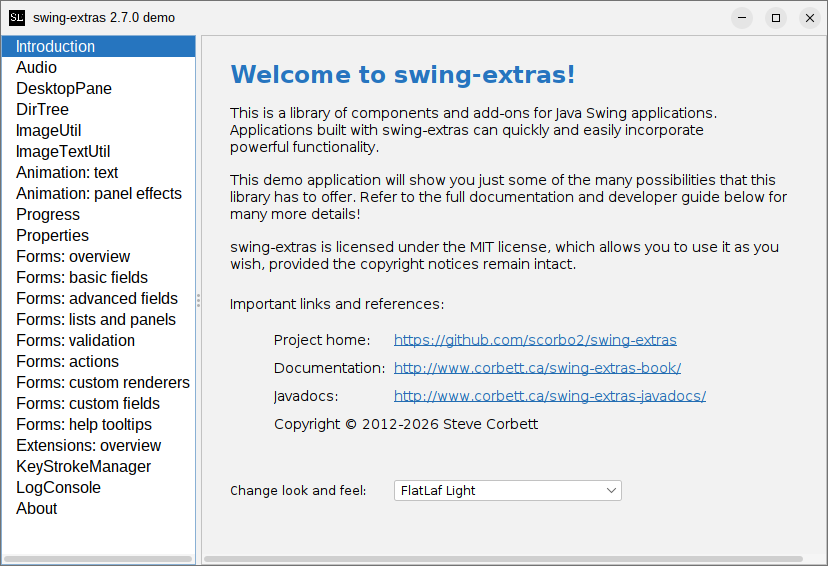
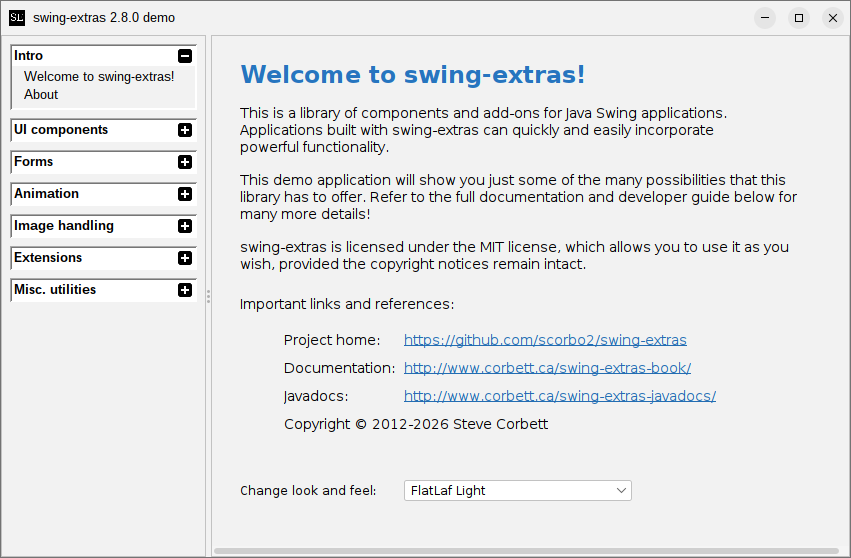
Final touches for 2.8 release (#420)
* Final touches for 2.8 release

* Remove self-referential release announcement link

diff --git a/src/main/java/ca/corbett/extras/Version.java b/src/main/java/ca/corbett/extras/Version.java
@@ -29,7 +29,7 @@ public final class Version {
         aboutInfo.projectUrl = PROJECT_URL;
         aboutInfo.logoImageLocation = "/swing-extras/images/swing-extras-logo.jpg";
         aboutInfo.applicationName = Version.NAME;
-        aboutInfo.applicationVersion = Version.VERSION + "-SNAPSHOT"; // TODO Remove -SNAPSHOT before release
+        aboutInfo.applicationVersion = Version.VERSION;
 
         // Applications can optionally show "built with swing-extras X.Y" in their about box
         // along with a link to the swing-extras product page, but we will disable that

diff --git a/README.md b/README.md
@@ -5,7 +5,6 @@ applications. The library includes a demo application so you can try out the var
 utilities within swing-extras:
 
 ![DemoApp](demo-app.png "Demo app")
-TODO update screenshot for 2.8 release
 
 ## Documentation
 
@@ -13,19 +12,17 @@ You can browse the full documentation online:
 - <http://www.corbett.ca/swing-extras-book/>
 - The [javadocs](http://www.corbett.ca/swing-extras-javadocs/) are also available.
 
-## TODO release announcement for 2.8
-If you're reading this, I forgot to update the README before release. Oops!
+## NEWS! March 8, 2026 - swing-extras 2.8 is here!
 
-## NEWS! January 25, 2026 - swing-extras 2.7 is here!
+This release introduces the new ActionPanel component, which is a useful
+and highly configurable navigation component. The demo application has been
+modified to use ActionPanel! Additionally, a number of bug fixes and smaller tickets:
 
-This is a maintenance release of swing-extras with a few new features and some bug fixes.
-Notable additions and changes in swing-extras 2.7:
-
-- New utility class: ResourceLoader, for easier loading of resources from the classpath.
-- New utility class: KeyStrokeManager, for easier management of keyboard shortcuts.
-- ListField now supports action buttons natively! Some pre-built actions are included!
-- MultiProgressDialog is now more configurable (progress label formatting options)
-- DirTree got some new features (show/hide hidden files, confirm before selection change)
+- New UI components: ActionPanel, TextInputDialog
+- New FormField: MarginsField / MarginsProperty
+- KeyStrokeManager got many improvements!
+- DirTree: now allows file viewing and double-clicking!
+- BlurLayerUI: add animation options and multi-line text overlay!
 
 And more! View the [full release notes](src/main/resources/swing-extras/releaseNotes.txt) for details,
 or check out the [archived release announcements](ReleaseAnnouncements.md) for details on previous releases.

diff --git a/ReleaseAnnouncements.md b/ReleaseAnnouncements.md
@@ -2,6 +2,19 @@
 
 Older release announcements for swing-extras releases will be archived here.
 
+## January 25, 2026 - swing-extras 2.7 is here!
+
+This is a maintenance release of swing-extras with a few new features and some bug fixes.
+Notable additions and changes in swing-extras 2.7:
+
+- New utility class: ResourceLoader, for easier loading of resources from the classpath.
+- New utility class: KeyStrokeManager, for easier management of keyboard shortcuts.
+- ListField now supports action buttons natively! Some pre-built actions are included!
+- MultiProgressDialog is now more configurable (progress label formatting options)
+- DirTree got some new features (show/hide hidden files, confirm before selection change)
+
+And more! View the [full release notes](src/main/resources/swing-extras/releaseNotes.txt) for a complete list.
+
 ## December 31, 2025 - swing extras 2.6 release is here!
 
 Happy New Year! The 2.6 release of swing-extras is now available.
